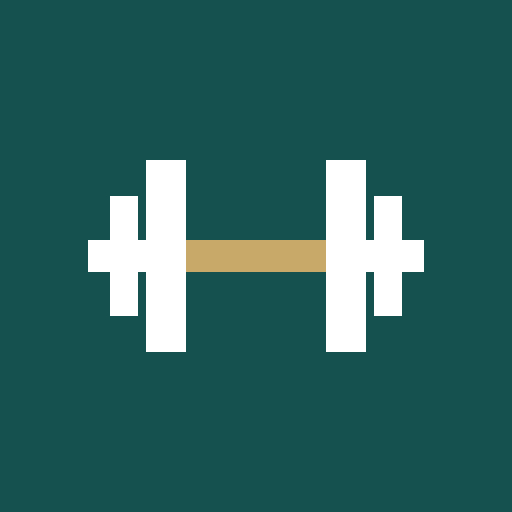
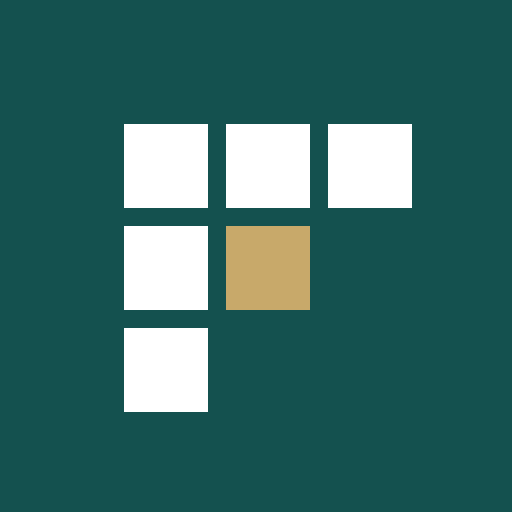
3.27.2: назва FORTES і логотип «F-стрілка», охра — досягнення

Changed region(s): [[0.1562, 0.2188, 0.8438, 0.8125]]

diff --git a/app.js b/app.js
@@ -5,9 +5,9 @@ window.APP_START = () => {
   'use strict';
   window.APP_STARTED = true;
   document.body.classList.add('started');
-  const VERSION = '3.27.1';
+  const VERSION = '3.27.2';
   /* знак застосунку: штанга на плашці бренду (замість K), середина грифа — охра */
-  const MARK = window.MARK_SVG;
+  const MARK = window.MARK_SVG, WORD = window.WORD_SVG;  // знак і назва FORTES (з 3.27.2 — криві шрифту бренду; tools/logo/build.mjs)
   const app = document.getElementById('app');
   const sheetEl = document.getElementById('sheet'), sheetBg = document.getElementById('sheetBg');
   let DB = STORE.load();
@@ -315,7 +315,7 @@ window.APP_START = () => {
 
   /* ---------- мова (з 3.17.0): перший запуск і «Більше»; зміна — перезапуск сторінки ---------- */
   function rLang() {
-    app.innerHTML = `<div class="brand">${MARK}<b>Тренування · Workouts</b></div><h1 style="margin-top:18px">Мова · Language</h1>
+    app.innerHTML = `<div class="brand">${MARK}${WORD}</div><h1 style="margin-top:18px">Мова · Language</h1>
       <div class="pick"><button type="button" class="wide big" data-act="langPick" data-v="uk"><b>🇺🇦 Українська</b><span class="small muted">Тексти, голос і тренер — українською</span></button>
       <button type="button" class="wide big" data-act="langPick" data-v="en"><b>🇺🇸 English (US)</b><span class="small muted">Texts, voice and coach in American English</span></button></div>
       <p class="small muted">Змінити можна в «Більше» · You can change it later in “More”.</p>`;
@@ -450,9 +450,8 @@ window.APP_START = () => {
         <label class="chk"><input type="checkbox" id="qAgree"${a.agree ? ' checked' : ''}${LL(`><span>Розумію: застосунок не замінює лікаря. При болю під час вправи — зупиняюсь.</span></label>`, `><span>I understand: this app doesn’t replace a doctor. If I feel pain during an exercise, I’ll stop.</span></label>`)}${err('agree')}`;
     }
     const last = q.step === QS.length - 1;
-    app.innerHTML = `<div class="brand">${MARK}${LL(`<b>Тренування</b></div>
-      <div class="qprog" aria-hidden="true"><i style="width:`, `<b>Workouts</b></div>
-      <div class="qprog" aria-hidden="true"><i style="width:`)}${q.edit ? 100 : Math.round((q.step + 1) / QS.length * 100)}${LL(`%"></i></div><p class="tiny muted">`, `%"></i></div><p class="tiny muted">`)}${q.edit ? LL('Зміна анкети', "Editing questionnaire") : LL('Крок ', "Step ") + (q.step + 1) + LL(' з ', " of ") + QS.length}</p>
+    app.innerHTML = `<div class="brand">${MARK}${WORD}${`</div>
+      <div class="qprog" aria-hidden="true"><i style="width:`}${q.edit ? 100 : Math.round((q.step + 1) / QS.length * 100)}${LL(`%"></i></div><p class="tiny muted">`, `%"></i></div><p class="tiny muted">`)}${q.edit ? LL('Зміна анкети', "Editing questionnaire") : LL('Крок ', "Step ") + (q.step + 1) + LL(' з ', " of ") + QS.length}</p>
       ${body}
       ${(() => { const left = q.ret && !last ? LL('<button type="button" class="ghost" data-act="qSum">До відповідей</button>', "<button type=\"button\" class=\"ghost\" data-act=\"qSum\">To answers</button>")
           : q.step && !(q.edit && last) ? LL('<button type="button" class="ghost" data-act="qBack">Назад</button>', "<button type=\"button\" class=\"ghost\" data-act=\"qBack\">Back</button>") : q.edit ? LL('<button type="button" class="ghost" data-act="qCancel">Скасувати</button>', "<button type=\"button\" class=\"ghost\" data-act=\"qCancel\">Cancel</button>") : '';
@@ -1413,7 +1412,7 @@ window.APP_START = () => {
     });
     g.font = F(500, 40); let y = 920;
     (s.prList || []).slice(0, 5).forEach((x) => { g.fillText('🏆 ' + prog.ex[x.ex].name, 80, y); y += 64; });
-    g.font = F(700, 32); g.globalAlpha = 0.85; g.fillText(LL('Тренування', "Workouts"), 80, 1280);
+    window.BRAND_DRAW(g, 80, 1280, 23, '#ffffff', '#c8a96a');  // знак і назва FORTES (з 3.27.2)
     c.toBlob((b) => { if (b) shareFile('trenuvannia-' + s.date + '.png', b, 'image/png'); }, 'image/png');
   }
 
@@ -2047,7 +2046,7 @@ window.APP_START = () => {
     let body;
     /* значок «1» на іконці — лише iPhone (iOS 16.4+, застосунок з іконки); Chrome на Android значків-цифр не вміє (MDN, setAppBadge) */
     if (!pushOk()) body = `<p class="small muted">${TX(standalone ? LL('Нагадуванням потрібен iOS 16.4 або новіший.', "Reminders need iOS 16.4 or later.") : LL('Нагадування працюють, коли застосунок відкрито з іконки на початковому екрані (Safari → «Поділитися» → «На початковий екран»).', "Reminders work when the app is opened from its Home Screen icon (Safari → “Share” → “Add to Home Screen”)."), LL('Цей браузер не вміє нагадувань — відкрийте застосунок у Chrome.', "This browser doesn’t support reminders — open the app in Chrome."))}</p>`;
-    else if (Notification.permission === 'denied') body = LL('<div class="note w small"><b>Сповіщення заборонено.</b> Увімкнути: ', "<div class=\"note w small\"><b>Notifications are blocked.</b> To turn them on: ") + TX(LL('«Параметри» iPhone → «Сповіщення» → «Тренування» → «Дозволити сповіщення».', "iPhone “Settings” → “Notifications” → “Workouts” → “Allow Notifications”."), LL('«Налаштування» Android → «Додатки» → «Тренування» (або Chrome, якщо відкриваєте в браузері) → «Сповіщення» → увімкнути.', "Android “Settings” → “Apps” → “Workouts” (or Chrome, if you use it in the browser) → “Notifications” → turn on.")) + '</div>';
+    else if (Notification.permission === 'denied') body = LL('<div class="note w small"><b>Сповіщення заборонено.</b> Увімкнути: ', "<div class=\"note w small\"><b>Notifications are blocked.</b> To turn them on: ") + TX(LL('«Параметри» iPhone → «Сповіщення» → назва застосунку (FORTES або «Тренування» — як підписана іконка) → «Дозволити сповіщення».', "iPhone “Settings” → “Notifications” → the app’s name (FORTES or “Workouts” — as under the icon) → “Allow Notifications”."), LL('«Налаштування» Android → «Додатки» → назва застосунку (FORTES або «Тренування» — як підписана іконка; або Chrome, якщо відкриваєте в браузері) → «Сповіщення» → увімкнути.', "Android “Settings” → “Apps” → the app’s name (FORTES or “Workouts” — as under the icon; or Chrome, if you use it in the browser) → “Notifications” → turn on.")) + '</div>';
     else if (r.on) body = `${LL(`<p class="small"><b>✓ Увімкнено</b> · `, `<p class="small"><b>✓ On</b> · `)}${ds.length ? dayNames(ds) : LL('дні тренувань', "workout days")}${LL(`, якщо ще не тренувались.`, `, if you haven’t worked out yet.`)}${TX(LL(' Значок «1» на іконці — поки сьогодні не почали тренування.', " A “1” badge on the app icon until you start today’s workout."), '')}${LL(`</p>
       <label class="f" for="remindTime">Час нагадування</label><input type="time" id="remindTime" value="`, `</p>
       <label class="f" for="remindTime">Reminder time</label><input type="time" id="remindTime" value="`)}${esc(r.time || '18:00')}${LL(`" step="300">
@@ -2143,7 +2142,7 @@ window.APP_START = () => {
        і підписом, угорі — скільки зроблено; до 3.27.1 — окрема кнопка «Виконано» (слово Alexа 23.10: з галочками було незрозуміло, чи натискати), тепер підказка під списком */
     const isDone = (it) => (it.jumps ? (rec.jumps || 0) >= prog.jumpsFor(wk).times : !!rec[it.id]);
     const nDone = prog.daily.filter(isDone).length, all = nDone === prog.daily.length;
-    return `<div class="card qst dly" data-tip="${esc(LL('Щоденні звички вашої програми. Торкніться рядка — відмітка на сьогодні; ще раз — скасувати.', 'Daily habits from your program. Tap a row to check it off for today; tap again to undo.'))}"><div class="sp"><b>${all ? LL('✓ Щодня — усе зроблено', '✓ Daily — all done') : LL('☑ Щодня', '☑ Daily')}</b><span class="small muted">${nDone} / ${prog.daily.length}</span></div><div class="qlist">${prog.daily.map((it) => {
+    return `<div class="card qst dly${all ? ' all' : ''}" data-tip="${esc(LL('Щоденні звички вашої програми. Торкніться рядка — відмітка на сьогодні; ще раз — скасувати.', 'Daily habits from your program. Tap a row to check it off for today; tap again to undo.'))}"><div class="sp"><b>${all ? '<span class="qmk">✓</span> ' + LL('Щодня — усе зроблено', 'Daily — all done') : LL('☑ Щодня', '☑ Daily')}</b><span class="small muted">${nDone} / ${prog.daily.length}</span></div><div class="qlist">${prog.daily.map((it) => {
       if (it.jumps) {
         const j = prog.jumpsFor(wk), done = rec.jumps || 0, ok = done >= j.times;
         return `<div class="qrow qbox${ok ? ' done' : ''}"><span class="qmk">${ok ? '✓' : '○'}</span><div style="flex:1;min-width:0"><span>${esc(it.label)}</span>${LL(`<div class="tiny muted">Тиждень `, `<div class="tiny muted">Week `)}${wk}: ${j.n}${LL(` стрибків × `, ` jumps × `)}${j.times}${LL(` на день, 30 с між стрибками. Лише якщо коліна, стопи й тазове дно без проблем. <button type="button" class="sm ghost" style="min-height:40px;padding:0 6px" data-act="guide" data-id="jumps">як стрибати</button></div>`, ` a day, 30 sec between jumps. Only if your knees, feet, and pelvic floor are problem-free. <button type="button" class="sm ghost" style="min-height:40px;padding:0 6px" data-act="guide" data-id="jumps">how to jump</button></div>`)}
@@ -2199,7 +2198,7 @@ window.APP_START = () => {
     const nd = nextDayText(p.days);
     /* порядок головної (з 3.27.1; слово Alexа 25.10: «Так, роби в 3.27.1 як радиш: порядок Тренування → Кухня → Як ви сьогодні → Завдання дня → Щодня → Урок дня,
        вода першим рядком у картці кухні…»; «Завдання дня» прибрано — «Прибери картку «Завдання дня» з головної в 3.27.1»: усі її пункти вже мають свої картки поруч): найчастіше застосунок відкривають відмітити воду — «+ склянка» на першому екрані (замір 390 × 844: було 2 047 px, стало ≈ 570) */
-    app.innerHTML = `<div class="brand">${MARK}${LL(`<b>Тренування</b>`, `<b>Workouts</b>`)}${themeBtn()}${LL(`</div><p class="muted small" style="margin-top:4px">`, `</div><p class="muted small" style="margin-top:4px">`)}${new Date().toLocaleDateString(I18N.locale(), { weekday: 'long', day: 'numeric', month: 'long' })}</p><div class="sp"><h1>${greet}${LL(`!</h1><div class="row" style="gap:8px;flex-wrap:nowrap"><button type="button" class="ic" data-act="ask" aria-label="запитати тренера">`, `!</h1><div class="row" style="gap:8px;flex-wrap:nowrap"><button type="button" class="ic" data-act="ask" aria-label="ask the coach">`)}${ICON.mic}</button><button type="button" class="ic${RADIO.state === 'playing' || RADIO.state === 'loading' ? ' rad' : ''}${LL(`" data-act="radio" aria-label="радіо">`, `" data-act="radio" aria-label="radio">`)}${ICON.radio}</button></div></div>
+    app.innerHTML = `<div class="brand">${MARK}${WORD}${themeBtn()}${LL(`</div><p class="muted small" style="margin-top:4px">`, `</div><p class="muted small" style="margin-top:4px">`)}${new Date().toLocaleDateString(I18N.locale(), { weekday: 'long', day: 'numeric', month: 'long' })}</p><div class="sp"><h1>${greet}${LL(`!</h1><div class="row" style="gap:8px;flex-wrap:nowrap"><button type="button" class="ic" data-act="ask" aria-label="запитати тренера">`, `!</h1><div class="row" style="gap:8px;flex-wrap:nowrap"><button type="button" class="ic" data-act="ask" aria-label="ask the coach">`)}${ICON.mic}</button><button type="button" class="ic${RADIO.state === 'playing' || RADIO.state === 'loading' ? ' rad' : ''}${LL(`" data-act="radio" aria-label="радіо">`, `" data-act="radio" aria-label="radio">`)}${ICON.radio}</button></div></div>
       ${alerts()}
       ${d ? `${LL(`<div class="card"><div class="sp"><div><b>Тренування триває</b><div class="small muted">`, `<div class="card"><div class="sp"><div><b>Workout in progress</b><div class="small muted">`)}${esc(wTitle(d))} · ${draftStats(d).done}/${draftStats(d).total}${LL(` підходів</div></div><button type="button" class="pri" data-act="resume">Продовжити</button></div></div>`, ` sets</div></div><button type="button" class="pri" data-act="resume">Resume</button></div></div>`)}` : ''}${LL(`
       <div class="card hero"><div class="row"><span class="chip">Тиждень `, `
@@ -2211,7 +2210,7 @@ window.APP_START = () => {
       ${kHomeCard()}${moodHome()}${dailyCard()}${lessonHome()}
       ${S().tour.tips ? '' : LL('<div class="card"><div class="sp"><div><b>💡 Підказка на кожній кнопці</b><div class="small muted">Затисніть будь-яку кнопку чи напис на 1 секунду — зʼявиться коротке пояснення.</div></div><button type="button" class="sm pri" data-act="tipsOk">Зрозуміло</button></div></div>', "<div class=\"card\"><div class=\"sp\"><div><b>💡 Tips on every button</b><div class=\"small muted\">Press and hold any button or label for 1 second to see a short explanation.</div></div><button type=\"button\" class=\"sm pri\" data-act=\"tipsOk\">Got it</button></div></div>")}
       ${!S().tour.v5 ? LL('<div class="card"><div class="sp"><div><b>Нове: серія, відновлення, урок дня</b><div class="small muted">Запасний тиждень для серії, мапа відновлення мʼязів (і 3D), урок дня, ранкове питання, виклик місяця, підсумок тижня й року.</div></div><button type="button" class="sm pri" data-act="whatsnew">Що нового</button></div></div>', "<div class=\"card\"><div class=\"sp\"><div><b>New: streaks, recovery, daily lesson</b><div class=\"small muted\">A spare week for your streak, a muscle recovery map (with 3D), a daily lesson, a morning check-in, a monthly challenge, weekly and yearly summaries.</div></div><button type=\"button\" class=\"sm pri\" data-act=\"whatsnew\">What’s new</button></div></div>") : S().tour.v4 ? '' : LL('<div class="card"><div class="sp"><div><b>Нове: запитайте тренера</b><div class="small muted">Кнопка з мікрофоном угорі: питання голосом, текстом чи з фото — про вашу програму, вагу й техніку.</div></div><button type="button" class="sm pri" data-act="whatsnew">Що нового</button></div></div>', "<div class=\"card\"><div class=\"sp\"><div><b>New: ask the coach</b><div class=\"small muted\">Tap the mic button at the top to ask by voice, text, or photo — about your program, weights, and form.</div></div><button type=\"button\" class=\"sm pri\" data-act=\"whatsnew\">What’s new</button></div></div>")}
-      <div class="grid3"><div class="stat" style="display:flex;justify-content:center">${CHARTS.ring(thisWeek, prog.perWeek || 3, thisWeek + '/' + (prog.perWeek || 3), LL('тиждень', "week"))}</div>
+      <div class="grid3"><div class="stat" style="display:flex;justify-content:center">${CHARTS.ring(thisWeek, prog.perWeek || 3, thisWeek + '/' + (prog.perWeek || 3), LL('тиждень', "week"), true)}</div>
         <div class="stat stk" data-tip="${esc(SPARE_TIP(si))}"><b>${streak}${si.spare ? '<small class="spare" aria-label="' + LL('є запасний тиждень', 'spare week saved') + '"> 🛡</small>' : ''}${LL(`</b><span>тижнів поспіль</span></div><div class="stat"><b>`, `</b><span>weeks in a row</span></div><div class="stat"><b>`)}${mprs}${LL(`</b><span>рекордів за місяць</span></div></div>
       `, `</b><span>PRs this month</span></div></div>
       `)}${yearHome()}${weekHome()}${mcHome()}${weekKcal()}${recHome()}${measureHome()}`;
@@ -2565,7 +2564,7 @@ window.APP_START = () => {
     /* з 3.21.3 (жива перевірка 3.21.2: «Випито 0 з 7 склянок · залишилось 6½ склянки»): загальна кількість — теж у половинках, як залишок
        і порції; неповна остання склянка — половинний значок (слово Alexа 24.10: «загальна кількість склянок у половинках, як залишок») */
     const n = Math.ceil(target / (glass / 2) - 1e-9) / 2, done = Math.floor(ml / glass * 2 + 1e-9) / 2, left = Math.max(0, Math.ceil((target - ml) / (glass / 2) - 1e-9)) / 2, leftMl = Math.max(0, target - ml);  // з 3.21.1 — по половинці
-    const icons = `<div class="glasses" role="img" aria-label="${LL('випито ', 'drank ')}${kGlN(ml >= target ? n : Math.min(done, n))}${LL(' з ', ' of ')}${kGlN(n)}">${Array.from({ length: Math.ceil(n) }, (_, j) => { const cap = Math.min(1, n - j), f = Math.min(cap, Math.max(0, (ml >= target ? n : done) - j)); return `<i class="${[f >= cap ? 'on' : f >= 0.5 ? 'half' : '', cap < 1 ? 'part' : ''].filter(Boolean).join(' ')}"></i>`; }).join('')}</div>`;
+    const icons = `<div class="glasses${ml >= target ? ' done' : ''}" data-tip="${esc(LL('Склянки: заповнені — випито. Норму на сьогодні виконано — усі стають охровими.', 'Glasses: filled — drunk. When today’s goal is done, they all turn ochre.'))}" role="img" aria-label="${LL('випито ', 'drank ')}${kGlN(ml >= target ? n : Math.min(done, n))}${LL(' з ', ' of ')}${kGlN(n)}">${Array.from({ length: Math.ceil(n) }, (_, j) => { const cap = Math.min(1, n - j), f = Math.min(cap, Math.max(0, (ml >= target ? n : done) - j)); return `<i class="${[f >= cap ? 'on' : f >= 0.5 ? 'half' : '', cap < 1 ? 'part' : ''].filter(Boolean).join(' ')}"></i>`; }).join('')}</div>`;
     const line = ml < target ? LL('Випито ', 'Drank ') + kGlN(Math.min(done, n)) + LL(' з ', ' of ') + kGlN(n) + (n % 1 ? LL(' склянки', ' glasses') : I18N.lang === 'en' ? (n === 1 ? ' glass' : ' glasses') : (n === 1 ? ' склянки' : ' склянок'))
       + ' · ' + LL('залишилось ', '') + kGlW(left) + LL('', ' left') + ' (' + fmt(leftMl / 1000) + LL(' л)', ' L)')
       : LL('Норму води на сьогодні виконано ✓', 'Today’s water goal is done ✓');
@@ -2619,8 +2618,10 @@ window.APP_START = () => {
   }
   /* відмітка води: скільки й коли (з 3.21.1 — журнал дня: «−» прибирає саме останню відмітку, час — для склянки на черзі) */
   function kWaterLog(d, ml) {
-    const day = kdayW(d); day.water = (day.water || 0) + ml;
+    const day = kdayW(d), was = day.water || 0; day.water = was + ml;
     (day.wl = day.wl || []).push({ ml, t: d === kWaterDay() ? kNowHM() : '' }); if (day.wl.length > 60) day.wl.shift();
+    /* охра — досягнення (з 3.27.2; слово Alexа 25.10: «роби пункти 1–4 … охра як досягнення»): норму на сьогодні щойно виконано — одне золоте повідомлення, як рекорд */
+    const T = kWTarget(d); if (d === kWaterDay() && was < T && day.water >= T) toast(LL('💧 Норму води на сьогодні виконано', '💧 Today’s water goal is done'), true);
   }
 
   /* ---- додати запис: шторка з чотирма способами ---- */
@@ -3073,9 +3074,9 @@ window.APP_START = () => {
     let remain = 0; for (let k = Number(today().slice(8, 10)) + (trainedToday() ? 1 : 0); k <= nd; k++) if (td.indexOf(new Date(y, m, k, 12).getDay()) >= 0) remain++;
     const why = !mc.prev ? LL('ціль — половина днів тренувань за планом', 'goal — half of your planned workout days') : mc.prev + 1 > mc.planned ? LL('ціль — усі дні тренувань за планом', 'goal — all of your planned workout days')
       : LL('минулого місяця — ', 'last month — ') + mc.prev + LL(', тепер на одне більше', ', now one more');
-    const txt = mc.met ? LL('✓ Виконано: ', '✓ Done: ') + mc.done + LL(' з ', ' of ') + mc.target
+    const txt = mc.met ? '<span class="mk">✓</span> ' + LL('Виконано: ', 'Done: ') + mc.done + LL(' з ', ' of ') + mc.target
       : LL('Зроблено ', 'Done ') + mc.done + LL(' з ', ' of ') + mc.target + (mc.left <= remain ? LL(' — ще ', ' — ') + mc.left + LL('', ' to go') : LL(' · днів тренувань до кінця місяця за планом: ', ' · planned workout days left this month: ') + remain);
-    return `<div class="card mch" data-tip="${esc(MC_TIP())}"><div class="sp"><b>${LL('🎯 Виклик ', '🎯 ')}${esc(monthGen(ym))}${LL('', ' challenge')}</b><span class="small">${mc.done} / ${mc.target}</span></div>
+    return `<div class="card mch${mc.met ? ' met' : ''}" data-tip="${esc(MC_TIP())}"><div class="sp"><b>${LL('🎯 Виклик ', '🎯 ')}${esc(monthGen(ym))}${LL('', ' challenge')}</b><span class="small">${mc.done} / ${mc.target}</span></div>
       <div class="kbar"><i style="width:${Math.min(100, Math.round(mc.done / mc.target * 100))}%"></i></div><p class="small muted" style="margin:6px 0 0">${txt} (${why}).</p></div>`;
   }
   /* у підсумку тренування — поступ виклику (поточний місяць, ще не виконаний: виконаний — це «🏅 Нова віха») */
@@ -3191,7 +3192,7 @@ window.APP_START = () => {
     });
     g.fillStyle = '#fff'; g.font = F(500, 38); let yy = 800;
     yearRows(r).slice(0, 6).forEach(([e, l, v]) => { let t2 = e + ' ' + l + ': ' + v; while (g.measureText(t2).width > 920 && t2.length > 8) t2 = t2.slice(0, -2) + '…'; g.fillText(t2, 80, yy); yy += 66; });
-    g.font = F(700, 32); g.globalAlpha = 0.85; g.fillText(LL('Тренування', 'Workouts'), 80, 1280); g.globalAlpha = 1;
+    window.BRAND_DRAW(g, 80, 1280, 23, '#ffffff', '#c8a96a');  // знак і назва FORTES (з 3.27.2)
     c.toBlob((b) => { if (b) shareFile('trenuvannia-' + y + '.png', b, 'image/png'); }, 'image/png');
   }
   /* радіо лише на тренуванні (пункт 16; «звʼязка спокуси»: Milkman, Minson, Volpp 2014, 226 людей — аудіокниги лише в залі спершу +51 % відвідувань, далі ефект слабшав) */
@@ -4029,7 +4030,7 @@ window.APP_START = () => {
   themeApply(themeNow());
   render();
   initPacks();
-  document.title = LL('Тренування', 'Workouts');
+  document.title = 'FORTES';  // назва застосунку (з 3.27.2; слово Alexа 25.10: «Замість слова Тренування має писатись FORTES. Це буде назва додатку») — однакова обома мовами
   { const TABS = { home: LL('Головна', 'Home'), plan: LL('План', 'Plan'), kitchen: LL('Кухня', 'Kitchen'), body: LL('Тіло', 'Body'), progress: LL('Прогрес', 'Progress'), more: LL('Більше', 'More') };
     document.querySelectorAll('#tabs button').forEach((b) => { const t = TABS[b.dataset.tab], n = [...b.childNodes].find((x) => x.nodeType === 3 && x.textContent.trim()); if (t && n) n.textContent = t; }); }
   badgeSync(); setTimeout(() => remindSync(false), 1500);  // підписка iPhone могла злетіти — тихо поновити й оновити розклад

diff --git a/index.html b/index.html
@@ -9,15 +9,16 @@
 <meta name="theme-color" content="#08201f" media="(prefers-color-scheme: dark)">
 <meta name="apple-mobile-web-app-capable" content="yes">
 <meta name="mobile-web-app-capable" content="yes">
-<meta name="apple-mobile-web-app-title" content="Тренування">
+<meta name="apple-mobile-web-app-title" content="FORTES">
 <meta name="apple-mobile-web-app-status-bar-style" content="default">
 <meta name="format-detection" content="telephone=no">
-<meta name="app-version" content="3.27.1">
+<meta name="app-version" content="3.27.2">
 <link rel="manifest" href="manifest.webmanifest">
 <link rel="preload" href="fonts/manrope-cyrillic.woff2" as="font" type="font/woff2" crossorigin>
 <link rel="apple-touch-icon" href="icon-180.png">
-<link rel="icon" href="icon-192.png">
-<title>Тренування</title>
+<link rel="icon" type="image/png" sizes="32x32" href="icon-32.png">
+<link rel="icon" type="image/png" sizes="192x192" href="icon-192.png">
+<title>FORTES</title>
 <style>
 /* Вигляд Kason 2: кольори бренду (бірюза, охра — акцент), м'які форми.
    Заокруглення — шкала --r-*; ряди дрібних кнопок і позначки — «капсули», стовпчики кнопок — заокруглені прямокутники (Apple HIG).
@@ -32,7 +33,7 @@
 :root{
   --bg:#f4f6f5; --card:#ffffff; --card2:color-mix(in srgb,#e8f0ef 50%,#ffffff); --ink:#1e1e1e; --muted:#5c6160; --line:#d8dcdb; --soft:#e8f0ef;
   --accent:#14514f; --accent2:#0d3937; --accent-ink:#ffffff; --accent-soft:#e8f0ef; --accent-text:#14514f;
-  --ochre:#c8a96a; --ochre-text:#8a6f30; --focus:#14514f;
+  --ochre:#c8a96a; --ochre-text:#8a6f30; --ochre-label:#8a6f30; --focus:#14514f;
   --ok:#14514f; --ok-soft:#e8f0ef; --bad:#8c2f27; --gold:#c8a96a;
   --w:#5c6160; --d:#14514f; --f:#1e1e1e; --bm-base:#d8dcdb; --bm-0:#e8f0ef;
   --hero:#e8f0ef; --hero2:color-mix(in srgb,#e8f0ef 90%,#14514f); --hero-ink:#1e1e1e; --hero-muted:#5c6160; --hero-btn:#14514f; --hero-btn-ink:#ffffff; --hero-chip:#ffffff;
@@ -61,7 +62,7 @@
 @media (prefers-color-scheme: dark){:root:not([data-theme="light"]){
   --bg:#08201f; --card:#0d3937; --card2:#0d3937; --ink:#eaefed; --muted:#9bb0ae; --line:#1c4b49; --soft:#08201f;
   --accent:#eaefed; --accent2:#ffffff; --accent-ink:#08201f; --accent-soft:rgba(20,81,79,.62); --accent-text:#eaefed;
-  --ochre:#c8a96a; --ochre-text:#c8a96a; --focus:#c8a96a;
+  --ochre:#c8a96a; --ochre-text:#c8a96a; --ochre-label:#9bb0ae; --focus:#c8a96a;
   --ok:#eaefed; --ok-soft:rgba(20,81,79,.62); --bad:#e08573; --gold:#c8a96a;
   --w:#9bb0ae; --d:#eaefed; --f:#eaefed; --bm-base:#1c4b49; --bm-0:#0d3937;
   --hero:#0d3937; --hero2:color-mix(in srgb,#0d3937 75%,#1c4b49); --hero-ink:#eaefed; --hero-muted:#9bb0ae; --hero-btn:#eaefed; --hero-btn-ink:#08201f; --hero-chip:#08201f;
@@ -82,7 +83,7 @@
 :root[data-theme="dark"]{
   --bg:#08201f; --card:#0d3937; --card2:#0d3937; --ink:#eaefed; --muted:#9bb0ae; --line:#1c4b49; --soft:#08201f;
   --accent:#eaefed; --accent2:#ffffff; --accent-ink:#08201f; --accent-soft:rgba(20,81,79,.62); --accent-text:#eaefed;
-  --ochre:#c8a96a; --ochre-text:#c8a96a; --focus:#c8a96a;
+  --ochre:#c8a96a; --ochre-text:#c8a96a; --ochre-label:#9bb0ae; --focus:#c8a96a;
   --ok:#eaefed; --ok-soft:rgba(20,81,79,.62); --bad:#e08573; --gold:#c8a96a;
   --w:#9bb0ae; --d:#eaefed; --f:#eaefed; --bm-base:#1c4b49; --bm-0:#0d3937;
   --hero:#0d3937; --hero2:color-mix(in srgb,#0d3937 75%,#1c4b49); --hero-ink:#eaefed; --hero-muted:#9bb0ae; --hero-btn:#eaefed; --hero-btn-ink:#08201f; --hero-chip:#08201f;
@@ -116,7 +117,7 @@ b,strong{font-weight:700}
 .brand{display:flex;align-items:center;gap:10px;margin:2px 0 6px}
 .brand .thm{margin-left:auto;width:44px;height:44px;min-height:44px;padding:0;border-radius:50%;display:flex;align-items:center;justify-content:center}.brand .thm svg{width:20px;height:20px;stroke:currentColor;fill:none;stroke-width:1.8;stroke-linecap:round;stroke-linejoin:round}
 .brand svg.mark{width:32px;height:32px;flex:0 0 auto;display:block;border-radius:var(--r-xs);box-shadow:var(--e1)}
-.brand b{font-size:1.02rem;letter-spacing:-.01em}
+.brand svg.word{display:block;flex:0 0 auto;color:var(--accent-text)}
 .card{background:var(--card);border:1px solid var(--card-line);border-radius:var(--r-md);box-shadow:var(--e1),var(--hl);padding:14px;margin:10px 0}
 .row{display:flex;gap:8px;align-items:center;flex-wrap:wrap} .sp{display:flex;justify-content:space-between;align-items:center;gap:8px}
 .sp>button,.sp>.btn{flex:0 0 auto} .sp>div{min-width:0}
@@ -245,6 +246,9 @@ svg.bodymap{width:100%;max-width:360px;display:block;margin:0 auto}
 .qrow{display:flex;align-items:center;gap:10px;min-height:44px;padding:6px 10px;border:1px solid var(--line);background:var(--card);color:var(--ink);border-radius:var(--r-sm);font:inherit;text-align:left}
 .qrow.done{opacity:.72}
 .qrow .qmk{flex:0 0 22px;text-align:center;font-weight:700;color:var(--accent-text)}
+/* охра — досягнення (з 3.27.2, §8): «Щодня» — усе зроблено, виклик місяця виконано; на світлому — темна охра (4,78 : 1), на темному — охра (5,63 : 1) */
+.dly.all .qmk{color:var(--ochre-text)} .dly.all .qrow.done{opacity:1}
+.mch.met .kbar i{background:var(--ochre-text)} .mch.met .mk{color:var(--ochre-text);font-weight:700}  /* виклик місяця виконано — охра (3.27.2, §8): смуга на --soft — 3,96 : 1 (світла), 7,55 : 1 (темна) */
 .legend{display:flex;flex-wrap:wrap;gap:6px 12px;font-size:.74rem;color:var(--muted);margin-top:6px} .legend i{display:inline-block;width:10px;height:10px;border-radius:3px;margin-right:4px;vertical-align:-1px;background:var(--accent)} .legend i.z{background:var(--ok-soft);outline:1px dashed var(--accent-text)}
 .hb{display:grid;gap:7px;margin-top:6px} .hbr{display:grid;grid-template-columns:110px 1fr 34px;gap:8px;align-items:center;font-size:.82rem}
 .hbt{position:relative;height:12px;background:var(--soft);border-radius:var(--r-pill);overflow:hidden;box-shadow:var(--in)} .hbz{position:absolute;top:0;bottom:0;background:var(--ok-soft);outline:1px dashed var(--accent-text)} .hbf{position:absolute;left:0;top:0;bottom:0;border-radius:var(--r-pill)}
@@ -258,8 +262,8 @@ svg.bodymap{width:100%;max-width:360px;display:block;margin:0 auto}
 .slot{min-height:46px;padding:4px;border-radius:var(--r-sm);font-size:.78rem;font-weight:700;background:var(--soft);border:0;line-height:1.1;box-shadow:none}
 .slot small{display:block;font-weight:500;color:var(--muted);font-size:.7rem}
 .slot.done{background:var(--ok-soft);color:var(--accent-text)} .slot.next{background:var(--accent);color:var(--accent-ink);box-shadow:var(--e1)} .slot.next small{color:var(--accent-ink);opacity:.8}
-.wk .wl .dlm{display:block;font-size:.7rem;color:var(--ochre-text);font-weight:500}  /* легкий тиждень — окремим рядком і текстом (не стилями): «12 · легкий» не вміщався й переносився з крапкою; англійською — перекладом */
-.wk.c6{gap:3px} .wk.c6 .wl{font-size:.7rem} .wk.c6.dl .wl{color:var(--ochre-text)} .wk.c6 .slot{padding:4px 2px;width:100%;min-width:0}
+.wk .wl .dlm{display:block;font-size:.7rem;color:var(--ochre-label);font-weight:500}  /* легкий тиждень — окремим рядком і текстом (не стилями): «12 · легкий» не вміщався й переносився з крапкою; англійською — перекладом */
+.wk.c6{gap:3px} .wk.c6 .wl{font-size:.7rem} .wk.c6.dl .wl{color:var(--ochre-label)} .wk.c6 .slot{padding:4px 2px;width:100%;min-width:0}
 /* фото */
 .ph{display:grid;grid-template-columns:repeat(3,1fr);gap:6px} .ph img{width:100%;aspect-ratio:3/4;object-fit:cover;border-radius:var(--r-sm);display:block}
 .cmp{position:relative;border-radius:var(--r-md);overflow:hidden;aspect-ratio:3/4;background:var(--soft);box-shadow:var(--e1)} .cmp img{position:absolute;inset:0;width:100%;height:100%;object-fit:cover}
@@ -412,7 +416,7 @@ button.mic.busy{opacity:.55}
 .kq.exact,.kq.label{background:var(--accent-soft);color:var(--accent-text)}
 .kph{display:flex;align-items:center;justify-content:center;gap:8px}.kph svg{width:20px;height:20px;flex:0 0 auto;stroke:currentColor;fill:none;stroke-width:1.8;stroke-linecap:round;stroke-linejoin:round}
 .kbar{height:8px;border-radius:5px;background:var(--soft);overflow:hidden;margin-top:4px}.kbar i{display:block;height:100%;background:var(--accent);border-radius:5px}
-.glasses{display:flex;flex-wrap:wrap;gap:6px;margin:8px 0}.glasses i{display:block;width:16px;height:22px;border:2px solid var(--accent);border-top-width:0;border-radius:0 0 5px 5px}.glasses i.on{background:var(--accent)}.glasses i.half{background:linear-gradient(to top,var(--accent) 50%,transparent 50%)}.glasses i.part{height:11px;align-self:flex-end}
+.glasses{display:flex;flex-wrap:wrap;gap:6px;margin:8px 0}.glasses i{display:block;width:16px;height:22px;border:2px solid var(--accent);border-top-width:0;border-radius:0 0 5px 5px}.glasses i.on{background:var(--accent)}.glasses.done i{border-color:var(--ochre-text)}.glasses.done i.on{background:var(--ochre-text)}.glasses i.half{background:linear-gradient(to top,var(--accent) 50%,transparent 50%)}.glasses i.part{height:11px;align-self:flex-end}
 .grid4{display:grid;grid-template-columns:repeat(4,minmax(0,1fr));gap:6px}.plate .stat b{font-size:1.25rem}.plate .stat span{font-size:.72rem}
 #sheet select{min-height:40px}
 </style>
@@ -432,23 +436,23 @@ button.mic.busy{opacity:.55}
   <button type="button" data-tab="more"><svg viewBox="0 0 24 24"><circle cx="12" cy="12" r="3"/><path d="M19.4 15a1.7 1.7 0 0 0 .3 1.8l.1.1a2 2 0 1 1-2.8 2.8l-.1-.1a1.7 1.7 0 0 0-1.8-.3 1.7 1.7 0 0 0-1 1.5V21a2 2 0 1 1-4 0v-.1a1.7 1.7 0 0 0-1.1-1.5 1.7 1.7 0 0 0-1.8.3l-.1.1a2 2 0 1 1-2.8-2.8l.1-.1a1.7 1.7 0 0 0 .3-1.8 1.7 1.7 0 0 0-1.5-1H3a2 2 0 1 1 0-4h.1a1.7 1.7 0 0 0 1.5-1.1 1.7 1.7 0 0 0-.3-1.8l-.1-.1a2 2 0 1 1 2.8-2.8l.1.1a1.7 1.7 0 0 0 1.8.3H9a1.7 1.7 0 0 0 1-1.5V3a2 2 0 1 1 4 0v.1a1.7 1.7 0 0 0 1 1.5 1.7 1.7 0 0 0 1.8-.3l.1-.1a2 2 0 1 1 2.8 2.8l-.1.1a1.7 1.7 0 0 0-.3 1.8V9a1.7 1.7 0 0 0 1.5 1H21a2 2 0 1 1 0 4h-.1a1.7 1.7 0 0 0-1.5 1z"/></svg>Більше</button>
 </nav>
 <input type="checkbox" switch id="hapIn" class="hap" aria-hidden="true" tabindex="-1"><label for="hapIn" id="hapLb" class="hap" aria-hidden="true"></label>
-<script src="i18n.js?v=3.27.1"></script>
-<script src="i18n_en.js?v=3.27.1"></script>
-<script src="program.js?v=3.27.1"></script>
-<script src="engine.js?v=3.27.1"></script>
-<script src="voice.js?v=3.27.1"></script>
-<script src="coach.js?v=3.27.1"></script>
-<script src="radio.js?v=3.27.1"></script>
-<script src="voicepack.js?v=3.27.1"></script>
-<script src="tips.js?v=3.27.1"></script>
-<script src="charts.js?v=3.27.1"></script>
-<script src="store.js?v=3.27.1"></script>
-<script src="generator.js?v=3.27.1"></script>
-<script src="food_db.js?v=3.27.1"></script>
-<script src="kitchen.js?v=3.27.1"></script>
-<script src="coachctx.js?v=3.27.1"></script>
-<script src="viz.js?v=3.27.1"></script>
-<script src="app.js?v=3.27.1"></script>
-<script src="accounts.js?v=3.27.1"></script>
+<script src="i18n.js?v=3.27.2"></script>
+<script src="i18n_en.js?v=3.27.2"></script>
+<script src="program.js?v=3.27.2"></script>
+<script src="engine.js?v=3.27.2"></script>
+<script src="voice.js?v=3.27.2"></script>
+<script src="coach.js?v=3.27.2"></script>
+<script src="radio.js?v=3.27.2"></script>
+<script src="voicepack.js?v=3.27.2"></script>
+<script src="tips.js?v=3.27.2"></script>
+<script src="charts.js?v=3.27.2"></script>
+<script src="store.js?v=3.27.2"></script>
+<script src="generator.js?v=3.27.2"></script>
+<script src="food_db.js?v=3.27.2"></script>
+<script src="kitchen.js?v=3.27.2"></script>
+<script src="coachctx.js?v=3.27.2"></script>
+<script src="viz.js?v=3.27.2"></script>
+<script src="app.js?v=3.27.2"></script>
+<script src="accounts.js?v=3.27.2"></script>
 </body>
 </html>

diff --git a/accounts.js b/accounts.js
@@ -4,8 +4,20 @@ var LL = typeof LL === 'function' ? LL : (typeof I18N !== 'undefined' ? I18N.L :
    Код і Face ID, увімкнені до 3.11.1, знімаються під час запуску — дані не зачіпаються.
    Список «Хто тренується?» показується лише тим, у кого з попередньої версії лишилося кілька користувачів.
    Після входу запускає застосунок (APP_START). Уся розмітка — у #app, стилі — з index.html. */
-/* знак застосунку (штанга) — спільний для екрана вибору й застосунку */
-window.MARK_SVG = '<svg class="mark" viewBox="0 0 512 512" aria-hidden="true"><rect width="512" height="512" rx="112" style="fill:var(--mark-tile)"/><g fill="#fff"><rect x="88" y="240" width="336" height="32"/><rect x="110" y="196" width="28" height="120"/><rect x="146" y="160" width="40" height="192"/><rect x="326" y="160" width="40" height="192"/><rect x="374" y="196" width="28" height="120"/></g><rect x="186" y="240" width="140" height="32" fill="#c8a96a"/></svg>';
+/* BRAND — згенеровано tools/logo/build.mjs (не правити руками). Логотип FORTES з 3.27.2: знак «F-стрілка» (сітка 3 × 3 — верхній ряд і лівий
+   стовпчик, центр охровий; читається як «F» і стрілка ↖) і назва кривими Satoshi Bold — шрифт бренду Kason для латиниці; design/logo/README.md */
+window.MARK_SVG = '<svg class="mark" viewBox="0 0 512 512" aria-hidden="true"><rect width="512" height="512" rx="112" style="fill:var(--mark-tile)"/><g fill="#fff"><rect x="124" y="124" width="84" height="84"/><rect x="226" y="124" width="84" height="84"/><rect x="328" y="124" width="84" height="84"/><rect x="124" y="226" width="84" height="84"/><rect x="124" y="328" width="84" height="84"/></g><rect x="226" y="226" width="84" height="84" fill="#c8a96a"/></svg>';
+window.WORD_SVG = '<svg class="word" viewBox="81 -744 4088.67 757" width="62.64" height="11.60" role="img" aria-label="FORTES"><g fill="currentColor" transform="scale(1,-1)"><path transform="translate(0,0)" d="M481 299L481 414L209 414L209 613L533 613L533 731L81 731L81 0L209 0L209 299Z"/><path transform="translate(650.33,0)" d="M748 366C748 589 602 744 393 744C184 744 39 588 39 366C39 143 183 -12 392 -12C602 -12 748 144 748 366ZM613 366C613 212 527 111 393 111C259 111 173 210 173 366C173 522 259 621 393 621C527 621 613 522 613 366Z"/><path transform="translate(1519.67,0)" d="M209 0L209 273L366 273L490 0L630 0L491 300C577 335 623 405 623 503C623 647 526 731 360 731L81 731L81 0ZM209 617L360 617C441 617 489 576 489 503C489 429 441 386 360 386L209 386Z"/><path transform="translate(2263,0)" d="M17 613L231 613L231 0L359 0L359 613L573 613L573 731L17 731Z"/><path transform="translate(2936.33,0)" d="M535 0L535 118L209 118L209 312L501 312L501 425L209 425L209 613L535 613L535 731L81 731L81 0Z"/><path transform="translate(3612.67,0)" d="M39 527C39 415 104 344 228 317L344 291C404 278 429 249 429 200C429 139 375 102 290 102C208 102 158 139 157 201L29 201C32 70 134 -13 290 -13C451 -13 557 75 557 211C557 320 496 384 371 411L256 436C195 450 167 479 167 531C167 592 218 630 297 630C369 630 414 593 417 530L545 530C541 662 447 744 299 744C145 744 39 655 39 527Z"/></g></svg>';
+/* знак і назва на полотні (картинка «Поділитися»): x — лівий край, base — базова лінія, cap — висота великої літери (= висоті знака), fg / ac — колір і охра */
+window.BRAND_DRAW = function (g, x, base, cap, fg, ac) {
+  var W = [[0,"M481 299L481 414L209 414L209 613L533 613L533 731L81 731L81 0L209 0L209 299Z"],[650.33,"M748 366C748 589 602 744 393 744C184 744 39 588 39 366C39 143 183 -12 392 -12C602 -12 748 144 748 366ZM613 366C613 212 527 111 393 111C259 111 173 210 173 366C173 522 259 621 393 621C527 621 613 522 613 366Z"],[1519.67,"M209 0L209 273L366 273L490 0L630 0L491 300C577 335 623 405 623 503C623 647 526 731 360 731L81 731L81 0ZM209 617L360 617C441 617 489 576 489 503C489 429 441 386 360 386L209 386Z"],[2263,"M17 613L231 613L231 0L359 0L359 613L573 613L573 731L17 731Z"],[2936.33,"M535 0L535 118L209 118L209 312L501 312L501 425L209 425L209 613L535 613L535 731L81 731L81 0Z"],[3612.67,"M39 527C39 415 104 344 228 317L344 291C404 278 429 249 429 200C429 139 375 102 290 102C208 102 158 139 157 201L29 201C32 70 134 -13 290 -13C451 -13 557 75 557 211C557 320 496 384 371 411L256 436C195 450 167 479 167 531C167 592 218 630 297 630C369 630 414 593 417 530L545 530C541 662 447 744 299 744C145 744 39 655 39 527Z"]], k = cap / 48, s = cap / 731;
+  g.save(); g.fillStyle = fg;
+  [[0, 0], [1, 0], [2, 0], [0, 1], [0, 2], [1, 1]].forEach(function (p, i) { if (i === 5) g.fillStyle = ac; g.fillRect(x + p[0] * 17 * k, base - cap + p[1] * 17 * k, 14 * k, 14 * k); });
+  g.fillStyle = fg; g.translate(x + 48 * k + cap * 0.5 - 81 * s, base); g.scale(s, -s);
+  W.forEach(function (w) { g.save(); g.translate(w[0], 0); g.fill(new Path2D(w[1])); g.restore(); });
+  g.restore();
+};
+/* /BRAND */
 var ACC = (function () {
   var OK = 'trening_acc_ok', app = null;
   var esc = function (s) { return String(s == null ? '' : s).replace(/[&<>"']/g, function (c) { return { '&': '&amp;', '<': '&lt;', '>': '&gt;', '"': '&quot;', "'": '&#39;' }[c]; }); };
@@ -26,7 +38,7 @@ var ACC = (function () {
     empties.slice(0, -1).forEach(function (a) { STORE.remove(a.id); });
     var list = STORE.accounts();
     if (list.length === 1) return open(list[0].id);
-    app.innerHTML = '<div class="brand">' + window.MARK_SVG + LL('<b>Тренування</b></div><h1>Хто тренується?</h1>', "<b>Workouts</b></div><h1>Who’s training?</h1>") +
+    app.innerHTML = '<div class="brand">' + window.MARK_SVG + window.WORD_SVG + LL('</div><h1>Хто тренується?</h1>', "</div><h1>Who’s training?</h1>") +
       '<div class="pick acc">' + list.map(function (a) {
         return '<button type="button" data-acc="' + esc(a.id) + '">' + tile(a.name) + '<span><b>' + esc(a.name) + '</b><span class="small muted">' + esc((a.sub && typeof I18N !== 'undefined' ? I18N.tr(a.sub) : a.sub) || (a.id === 'a1' ? LL('Наявні тренування', "Existing workouts") : LL('Програму ще не складено', "No program yet"))) + '</span></span></button>';
       }).join('') + LL('</div><p class="tiny muted">Дані зберігаються лише в цьому телефоні.</p>', "</div><p class=\"tiny muted\">Data is stored only on this phone.</p>");

diff --git a/sw.js b/sw.js
@@ -1,7 +1,7 @@
 /* Робота без інтернету. Файли застосунку — спершу з мережі (щоб одразу бачити оновлення), без мережі — з кешу.
    Голоси тренера — в окремому кеші й не стираються з оновленням. */
-const CACHE = 'trening-3.27.1', VCACHE = 'trening-voices';
-const FILES = ['./', 'index.html', 'i18n.js', 'i18n_en.js', 'program.js', 'engine.js', 'voice.js', 'coach.js', 'radio.js', 'voicepack.js', 'tips.js', 'charts.js', 'store.js', 'generator.js', 'food_db.js', 'kitchen.js', 'coachctx.js', 'app.js', 'accounts.js', 'manifest.webmanifest', 'icon-180.png', 'icon-192.png', 'icon-512.png', 'fonts/manrope-cyrillic.woff2', 'fonts/manrope-latin.woff2',
+const CACHE = 'trening-3.27.2', VCACHE = 'trening-voices';
+const FILES = ['./', 'index.html', 'i18n.js', 'i18n_en.js', 'program.js', 'engine.js', 'voice.js', 'coach.js', 'radio.js', 'voicepack.js', 'tips.js', 'charts.js', 'store.js', 'generator.js', 'food_db.js', 'kitchen.js', 'coachctx.js', 'app.js', 'accounts.js', 'manifest.webmanifest', 'icon-32.png', 'icon-180.png', 'icon-192.png', 'icon-512.png', 'fonts/manrope-cyrillic.woff2', 'fonts/manrope-latin.woff2',
   /* 3D-рух на картці підходу (з 3.22.0) — у кеші одразу: у залі без звʼязку відкриється й уперше */
   'viz.js', 'viz/engine3d.js', 'viz/equip3d.js', 'viz/ex3d.js', 'vendor/three/three.module.min.js', 'vendor/three/three.core.min.js'];
 self.addEventListener('install', (e) => { e.waitUntil(caches.open(CACHE).then((c) => c.addAll(FILES.map((f) => new Request(f, { cache: 'no-cache' })))).catch(() => {}).then(() => self.skipWaiting())); });
@@ -41,7 +41,7 @@ self.addEventListener('push', (e) => {
   let m = {}; try { m = e.data ? e.data.json() : {}; } catch (x) { m = { body: e.data ? e.data.text() : '' }; }
   /* renotify (з 3.27.1; слово Alexа 25.10 «Так, зроби 3.27.1: renotify для повторних нагадувань на Android»): нове нагадування з тим самим tag замінює попереднє в шторці —
      без renotify Chrome / Android робить це без звуку й вібрації (web.dev «Notification behavior»); Safari на iPhone tag і renotify не підтримує (MDN) — там без змін */
-  const shown = self.registration.showNotification(m.title || 'Тренування', { body: m.body || '', icon: 'icon-192.png', tag: m.tag || 'trening-remind', renotify: true, data: { url: m.url || './' } });
+  const shown = self.registration.showNotification(m.title || 'FORTES', { body: m.body || '', icon: 'icon-192.png', tag: m.tag || 'trening-remind', renotify: true, data: { url: m.url || './' } });
   const badge = m.badge && self.navigator && self.navigator.setAppBadge ? self.navigator.setAppBadge(m.badge).catch(() => {}) : Promise.resolve();
   e.waitUntil(Promise.all([shown, badge]));
 });

diff --git a/charts.js b/charts.js
@@ -54,11 +54,11 @@ var CHARTS = (function () {
     }).join('') + '</div><div class="legend"><span><i class="z"></i>' + esc(o.zoneLabel || LL('орієнтир ', "target ") + lo + '–' + hi + LL(' підходів', " sets")) + '</span></div>';
   }
 
-  /* Кільце прогресу */
-  function ring(val, max, label, sub) {
+  /* Кільце прогресу; gold — повне кільце охрове: досягнення (з 3.27.2 — тиждень: усі заплановані тренування; охра — досягнення, §8) */
+  function ring(val, max, label, sub, gold) {
     var r = 30, c = 2 * Math.PI * r, f = Math.max(0, Math.min(1, max ? val / max : 0));
     return '<svg class="ring" viewBox="0 0 80 80" aria-label="' + esc(label) + '"><circle cx="40" cy="40" r="' + r + '" fill="none" style="stroke:var(--soft)" stroke-width="8"/>' +
-      '<circle cx="40" cy="40" r="' + r + '" fill="none" style="stroke:' + (f >= 1 ? 'var(--ok)' : 'var(--accent)') + '" stroke-width="8" stroke-linecap="round" stroke-dasharray="' + (c * f).toFixed(1) + ' ' + c.toFixed(1) + '" transform="rotate(-90 40 40)"/>' +
+      '<circle cx="40" cy="40" r="' + r + '" fill="none" style="stroke:' + (f >= 1 ? (gold ? 'var(--ochre-text)' : 'var(--ok)') : 'var(--accent)') + '" stroke-width="8" stroke-linecap="round" stroke-dasharray="' + (c * f).toFixed(1) + ' ' + c.toFixed(1) + '" transform="rotate(-90 40 40)"/>' +
       '<text x="40" y="38" text-anchor="middle" class="rv">' + esc(label) + '</text><text x="40" y="53" text-anchor="middle" class="rs">' + esc(sub || '') + '</text></svg>';
   }
 
